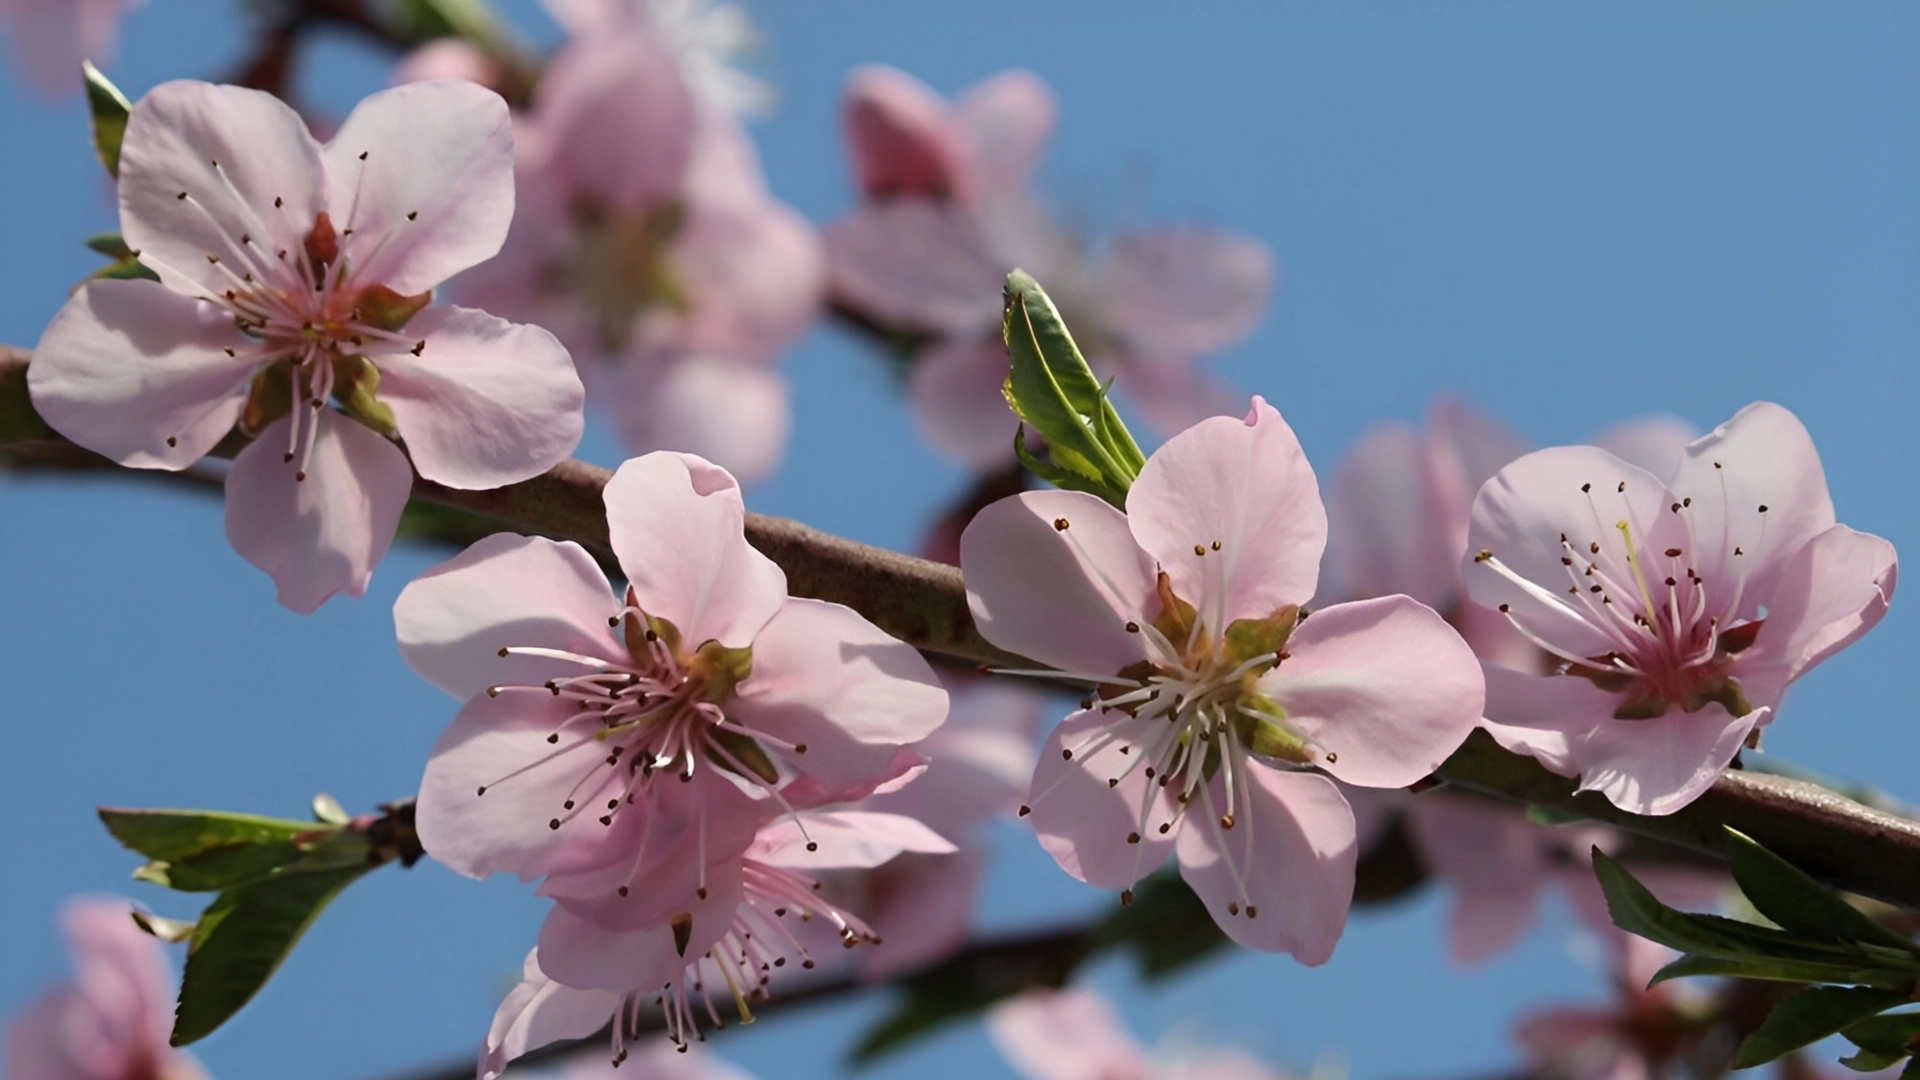
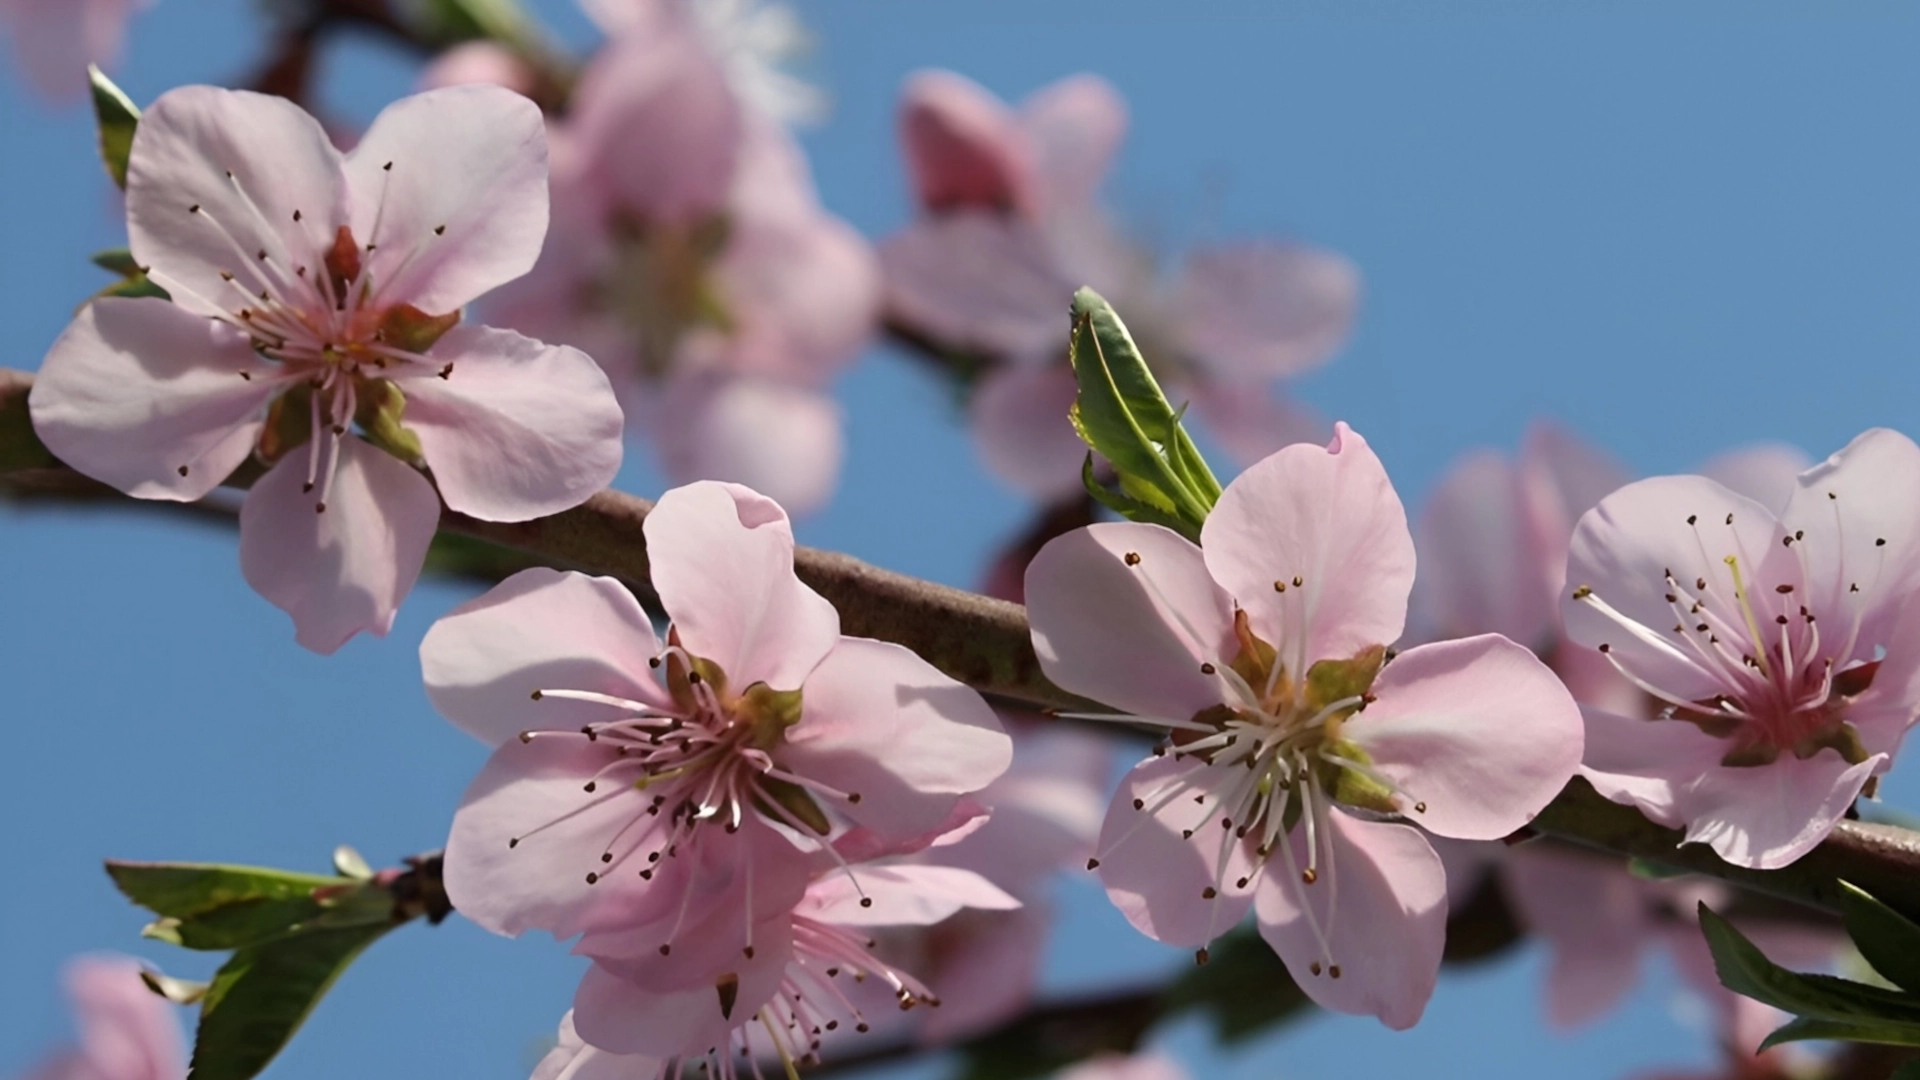
March-style fresh

diff --git a/css/003-components-march.css b/css/003-components-march.css
@@ -7,7 +7,7 @@ body {
     background-size:        cover;
     background-repeat:      no-repeat;
     background-attachment:  fixed;
-    background-position:    center;
+    background-position:    left top;
     transition:             background-image 0.5s ease-in-out;
 }
 header, aside, footer {
